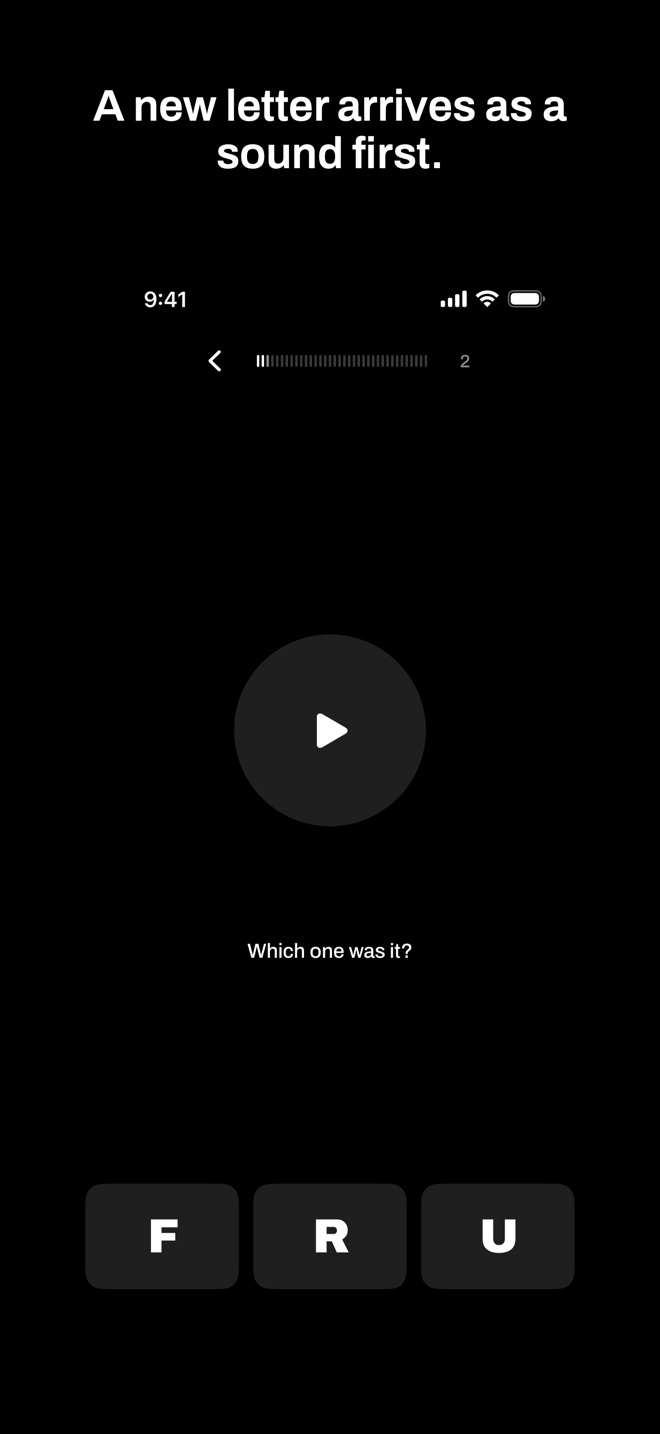
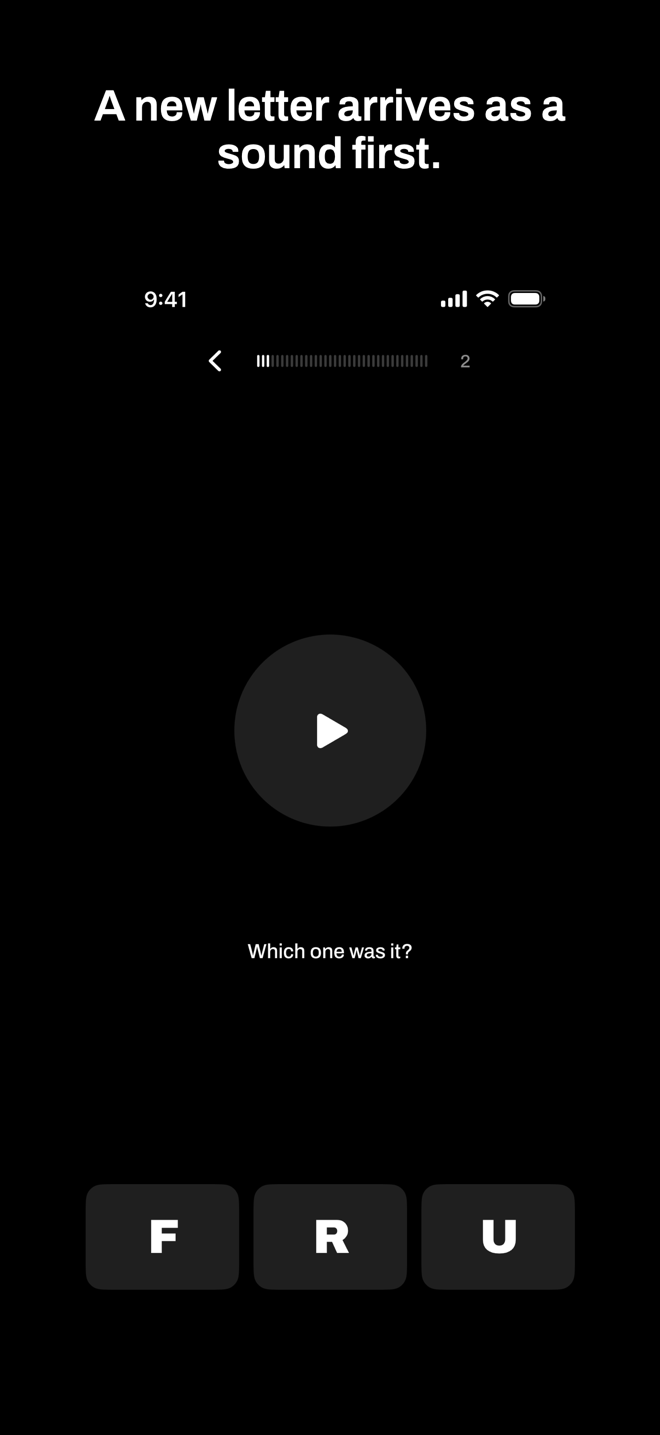
📸 Render the store screenshots at the 6.3" size
App Store Connect now requires the 1206 x 2622 (6.3") set and rejects
1320 x 2868 as "file dimensions are invalid"; it scales the 6.3" set to
every other iPhone, so the larger size is optional. The canvas and its
caption geometry shrink proportionally (top 475, radius 100, caption
80 px, margin 88 px), the five store PNGs and the three web copies are
re-rendered from the current build, so the home screen shows the unlock
nudge and hides the codes the way the app does now, and the listing
note names the new size.

diff --git a/scripts/compose-screenshots.swift b/scripts/compose-screenshots.swift
@@ -1,6 +1,7 @@
 #!/usr/bin/env swift
-// Composes the App Store screenshots: each raw simulator capture on a black 1320 x 2868
-// canvas with its caption above it in Archivo SemiBold.
+// Composes the App Store screenshots: each raw simulator capture on a black 1206 x 2622
+// canvas (the 6.3" size App Store Connect requires and scales to every other iPhone) with
+// its caption above it in Archivo SemiBold.
 //
 //   swift scripts/compose-screenshots.swift <raw-dir> <out-dir>
 //
@@ -19,13 +20,13 @@ let shots: [(file: String, slug: String, caption: String)] = [
     ("settings", "settings", "Strict timing, your pitch, your hand."),
 ]
 
-let canvasWidth = 1320
-let canvasHeight = 2868
-let captureTop: CGFloat = 520        // points from the top of the canvas
-let captureWidthFraction: CGFloat = 0.80   // 1056 px wide, 2294 px tall: the whole screen fits above the bottom edge
-let cornerRadius: CGFloat = 110
-let captionSize: CGFloat = 88
-let captionMargin: CGFloat = 96
+let canvasWidth = 1206
+let canvasHeight = 2622
+let captureTop: CGFloat = 475        // points from the top of the canvas
+let captureWidthFraction: CGFloat = 0.80   // 965 px wide, 2097 px tall: the whole screen fits above the bottom edge
+let cornerRadius: CGFloat = 100
+let captionSize: CGFloat = 80
+let captionMargin: CGFloat = 88
 let fontPath = "MorseLamp/Resources/Fonts/Archivo-SemiBold.ttf"
 let fontName = "Archivo-SemiBold"
 let webShots: Set<String> = ["keying", "listening", "reveal"]

diff --git a/docs/store/listing.md b/docs/store/listing.md
@@ -43,7 +43,7 @@ morse,morse code,learn morse,koch,cw,telegraph,ham radio,dits,dahs,trainer
 - App Privacy: Data Not Collected.
 - Price: free, all territories.
 - Copyright: 2026 Mykola Solodukha.
-- Screenshots: `docs/store/screenshots/1-keying.png` to `5-settings.png` (6.9", 1320 x 2868), in that order.
+- Screenshots: `docs/store/screenshots/1-keying.png` to `5-settings.png` (6.3", 1206 x 2622: the size App Store Connect requires; it scales them to the other iPhones), in that order.
 
 ## Review notes
 
